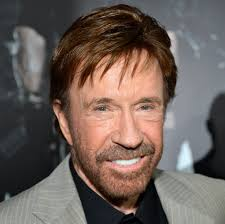
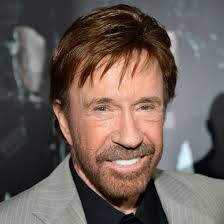
Lesson "Exercise: Web App API" : Added Chuck image carousel and animations.

diff --git a/S22-24_BackEndApiProblemSolving/script.js b/S22-24_BackEndApiProblemSolving/script.js
@@ -1,17 +1,33 @@
 // Zero To Mastery Academy
 // Complete Web Developer in 2025: Zero to Mastery
-// Application Programming Interface :: Chuck Norris Jokes :: JavaScript
+// Application Programming Interface :: Chuck Norris Jokes :: Webpage Logic
 
-// joke text > new joke button > API URL -------------------------------------------------------------------------------
+// chuck image > joke text > new joke button > API URL -----------------------------------------------------------------
 
+const chuckImage = document.getElementById("chuck-image");
 const jokeText = document.getElementById("joke-text");
 const jokeBtn = document.getElementById("joke-btn");
 const apiUrl = "https://api.chucknorris.io/jokes/random";
 
-// fetching new joke from API ------------------------------------------------------------------------------------------
+// chuck image inits ---------------------------------------------------------------------------------------------------
+
+const chuckImages = [
+    "chuck1.jpg",
+    "chuck2.jpg",
+    "chuck3.jpg",
+    "chuck4.jpg",
+];
+let chuckIndex = 0;
+
+// cycling chuck image > fetching new joke > error handling ------------------------------------------------------------
 
 async function getNewJoke() {
     try {
+        // cycling chuck image
+        chuckIndex++;
+        if (3 < chuckIndex) {chuckIndex = 0;}
+        chuckImage.src = chuckImages[chuckIndex];
+        // fetching new joke
         const response = await fetch(apiUrl);
         const data = await response.json();
         jokeText.textContent = data.value;

diff --git a/S22-24_BackEndApiProblemSolving/styles.css b/S22-24_BackEndApiProblemSolving/styles.css
@@ -52,18 +52,24 @@ html, body {
     padding: 2em;
 } */
 
-.chuck-image {
+#chuck-image {
     display: block;
     width: auto;
     height: 300px;
     margin: 0 auto 30px;
     border-radius: 50%;
+    transition: all 0.2s ease-in-out;
+}
+
+#chuck-image:hover {
+    box-shadow: 5px 5px 30px #8b4513;
+    transform: scale(1.1);
 }
 
 #joke-text {
     max-width: 800px;
     margin: 0 auto 30px;
-    box-shadow: 0 0 15px #8b4513;
+    box-shadow: 0 0 10px #8b4513;
     border: none;
     border-radius: 10px;
     padding: 20px;
@@ -73,6 +79,7 @@ html, body {
     font-size: 32px;
     font-style: italic;
     font-weight: 700;
+    transition: all 0.2s ease-in-out;
 }
 
 #joke-text:hover {
@@ -90,10 +97,11 @@ html, body {
     font-size: 24px;
     font-weight: 700;
     cursor: pointer;
+    transition: all 0.2s ease-in-out;
 }
 
 #joke-btn:hover {
-    background-color: #f5deb3;
+    background-color: #ffdead;
     color: #000;
 }
 

diff --git a/S22-24_BackEndApiProblemSolving/chuck-norris.html b/S22-24_BackEndApiProblemSolving/chuck-norris.html
@@ -37,7 +37,7 @@
   
   <main>
     <h1>Chuck Norris Jokes</h1>
-    <img src="chuck4.jpg" alt="Chuck Norris" class="chuck-image">
+    <img id="chuck-image" alt="Chuck Norris">
     <p id="joke-text"></p>
     <button id="joke-btn">Get Another Joke</button>
   </main>
